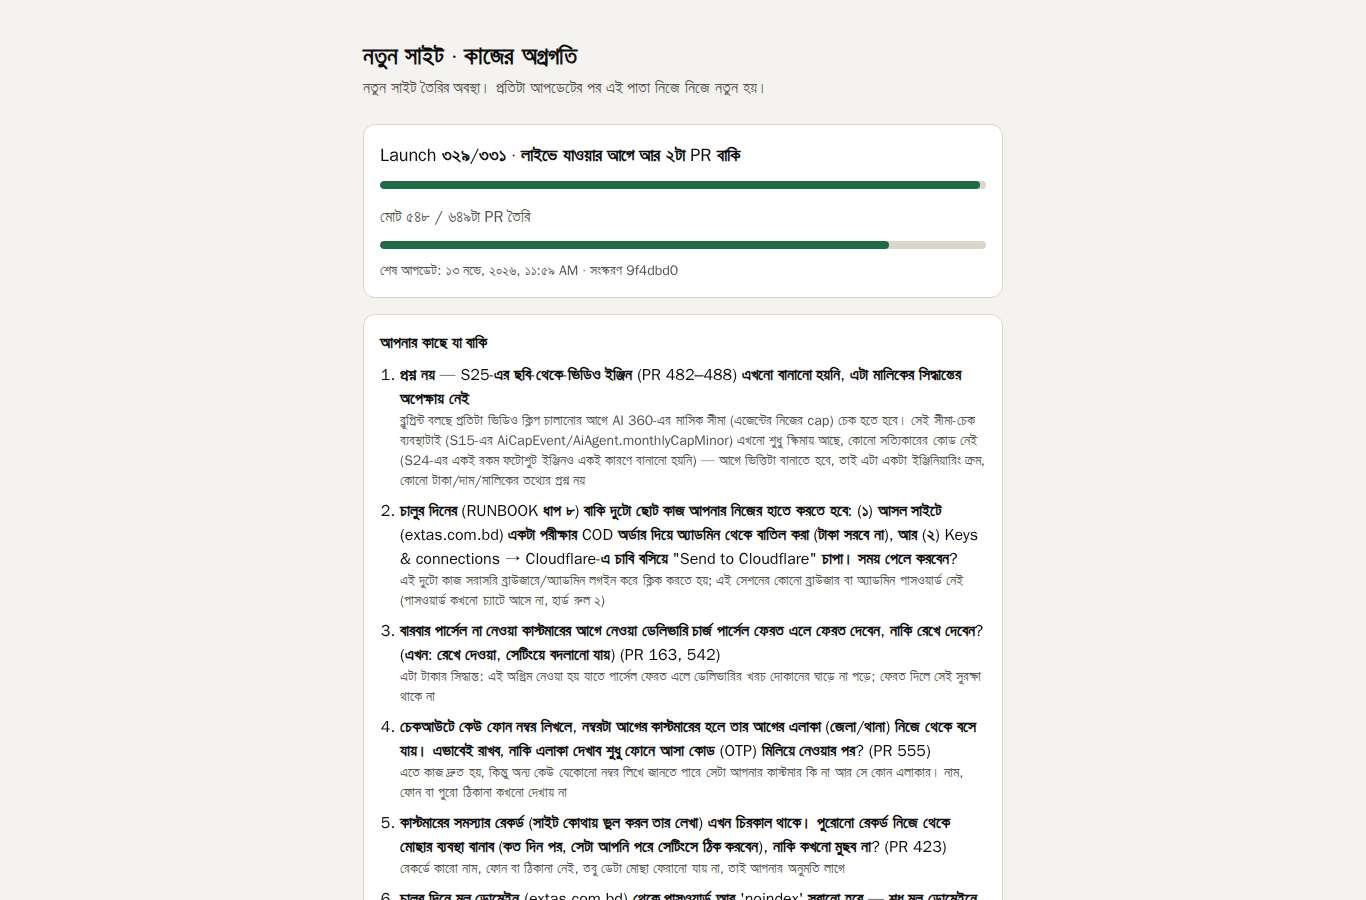
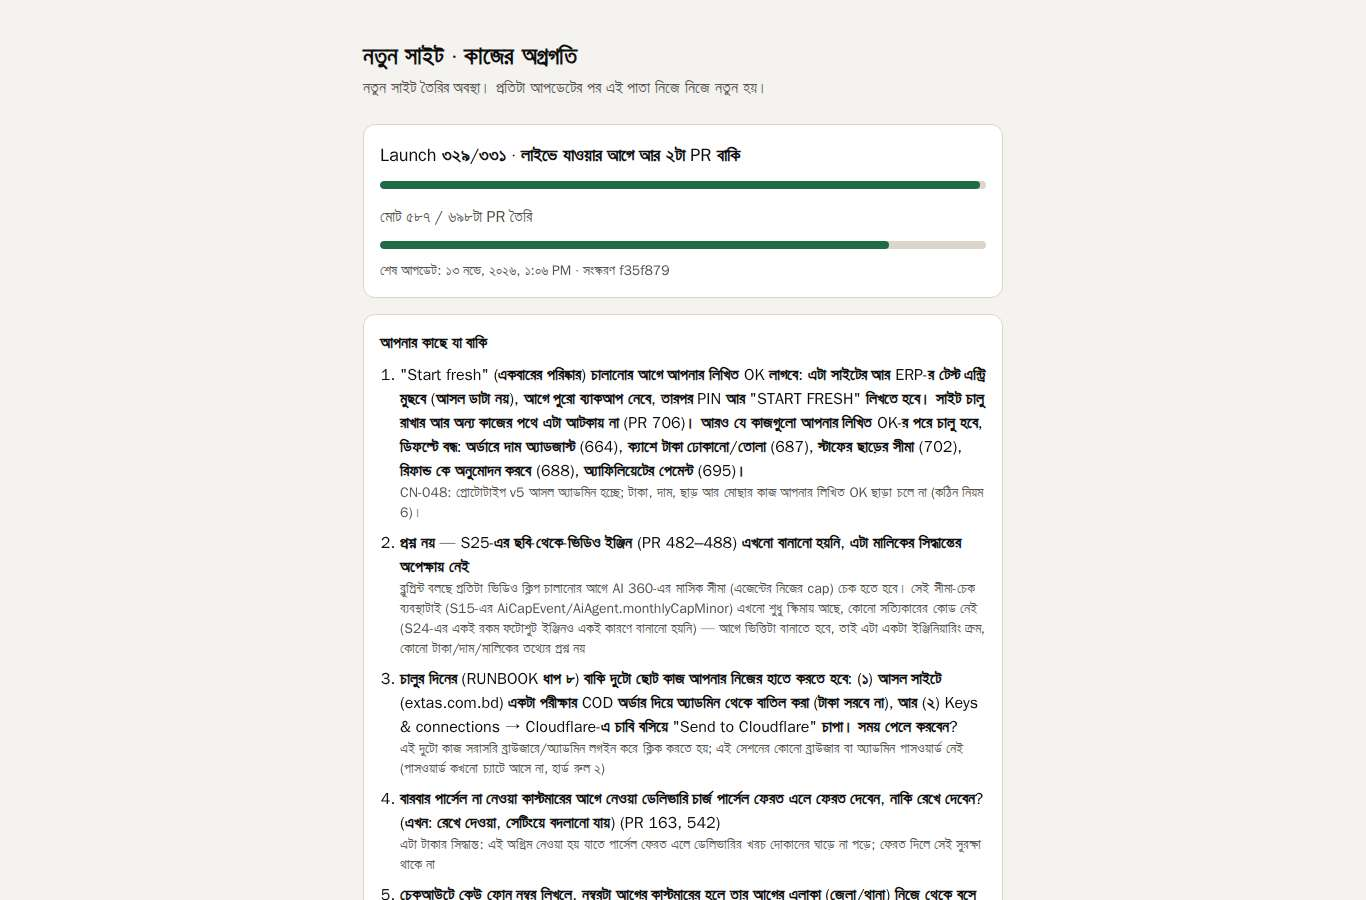
deploy report: f35f87919395 OK [skip ci]

Changed region(s): [[0.2767, 0.4044, 0.7379, 1.0], [0.3997, 0.28, 0.4919, 0.3111], [0.3382, 0.2178, 0.3997, 0.2489]]

diff --git a/docs/reports/smoke/latest/README.md b/docs/reports/smoke/latest/README.md
@@ -1,8 +1,8 @@
-# Smoke test · 2026-11-13 11:59 (Asia/Dhaka)
+# Smoke test · 2026-11-13 13:06 (Asia/Dhaka)
 
-> **বাংলায়:** সব পাতা ঠিকমতো খুলেছে (576টা পাতা, ফোন আর কম্পিউটারে)। কোনো সমস্যা নেই।
+> **বাংলায়:** সব পাতা ঠিকমতো খুলেছে (594টা পাতা, ফোন আর কম্পিউটারে)। কোনো সমস্যা নেই।
 
-Site: https://new.extas.com.bd · commit `9f4dbd010ba9` · after deploy · result **PASS** (576 page views, 0 failed)
+Site: https://new.extas.com.bd · commit `f35f87919395` · after deploy · result **PASS** (594 page views, 0 failed)
 
 | Page | Screen | Answer | Landed on | Result | Screenshot |
 |---|---|:-:|---|---|---|
@@ -233,7 +233,8 @@ Site: https://new.extas.com.bd · commit `9f4dbd010ba9` · after deploy · resul
 | `/admin/marketing/studio/motion` | phone | 200 | `/admin/marketing/studio/motion` | ok | — |
 | `/admin/marketing/studio/models` | phone | 200 | `/admin/marketing/studio/models` | ok | — |
 | `/admin/marketing/studio/videos` | phone | 200 | `/admin/marketing/studio/videos` | ok | — |
-| `/admin/marketing/studio/briefs` | phone | 200 | `/admin/marketing/studio/briefs` | ok | — |
+| `/admin/marketing/studio/reels` | phone | 200 | `/admin/marketing/studio/reels` | ok | — |
+| `/admin/marketing/studio/export` | phone | 200 | `/admin/marketing/studio/export` | ok | — |
 | `/admin/marketing/studio/overlay` | phone | 200 | `/admin/marketing/studio/overlay` | ok | — |
 | `/admin/website/words` | phone | 200 | `/admin/website/words` | ok | — |
 | `/admin/website/eye-toggles` | phone | 200 | `/admin/website/eye-toggles` | ok | — |
@@ -284,13 +285,21 @@ Site: https://new.extas.com.bd · commit `9f4dbd010ba9` · after deploy · resul
 | `/admin/website/blog/ads` | phone | 200 | `/admin/website/blog/ads` | ok | — |
 | `/admin/website/blog/ads/new` | phone | 200 | `/admin/website/blog/ads/new` | ok | — |
 | `/admin/website/blog/pipeline` | phone | 200 | `/admin/website/blog/pipeline` | ok | — |
-| `/admin/website/blog/source` | phone | 200 | `/admin/website/blog/source` | ok | — |
 | `/admin/marketing/geo-guide` | phone | 200 | `/admin/marketing/geo-guide` | ok | — |
 | `/admin/marketing/merchant-feed` | phone | 200 | `/admin/marketing/merchant-feed` | ok | — |
+| `/admin/marketing/studio/briefs` | phone | 200 | `/admin/marketing/studio/briefs` | ok | — |
+| `/admin/website/blog/source` | phone | 200 | `/admin/website/blog/source` | ok | — |
 | `/admin/marketing/intel` | phone | 200 | `/admin/marketing/intel` | ok | — |
+| `/admin/ai/cost-book` | phone | 200 | `/admin/ai/cost-book` | ok | — |
+| `/admin/ai/approvals` | phone | 200 | `/admin/ai/approvals` | ok | — |
+| `/admin/ai/permissions` | phone | 200 | `/admin/ai/permissions` | ok | — |
+| `/admin/ai/diary` | phone | 200 | `/admin/ai/diary` | ok | — |
+| `/admin/ai/skills` | phone | 200 | `/admin/ai/skills` | ok | — |
+| `/admin/ai/skills/sandbox` | phone | 200 | `/admin/ai/skills/sandbox` | ok | — |
+| `/admin/reports/funnels` | phone | 200 | `/admin/reports/funnels` | ok | — |
 | `/admin/orders/01a1b61a-a11b-7d82-bdea-f4c089401719` | phone | 200 | `/admin/orders/01a1b61a-a11b-7d82-bdea-f4c089401719` | ok | — |
 | `/admin/customers/01a1b61a-a118-7bf3-acad-0f8b6b421a94` | phone | 200 | `/admin/customers/01a1b61a-a118-7bf3-acad-0f8b6b421a94` | ok | — |
-| `/admin/reports/health/history/01a1d379-9b53-7151-8f65-769efd0745f2` | phone | 200 | `/admin/reports/health/history/01a1d379-9b53-7151-8f65-769efd0745f2` | ok | — |
+| `/admin/reports/health/history/01a1d385-f6eb-7991-9c07-ba436a818b5c` | phone | 200 | `/admin/reports/health/history/01a1d385-f6eb-7991-9c07-ba436a818b5c` | ok | — |
 | `/admin/customers/01a1b61a-a118-7bf3-acad-0f8b6b421a94?tab=wallet` | phone | 200 | `/admin/customers/01a1b61a-a118-7bf3-acad-0f8b6b421a94` | ok | — |
 | `/admin/combos?tab=report` | phone | 200 | `/admin/combos` | ok | — |
 | `/admin?home=1` | phone | 200 | `/admin` | ok | [picture](admin-home-1-phone.jpg) |
@@ -521,7 +530,8 @@ Site: https://new.extas.com.bd · commit `9f4dbd010ba9` · after deploy · resul
 | `/admin/marketing/studio/motion` | desktop | 200 | `/admin/marketing/studio/motion` | ok | — |
 | `/admin/marketing/studio/models` | desktop | 200 | `/admin/marketing/studio/models` | ok | — |
 | `/admin/marketing/studio/videos` | desktop | 200 | `/admin/marketing/studio/videos` | ok | — |
-| `/admin/marketing/studio/briefs` | desktop | 200 | `/admin/marketing/studio/briefs` | ok | — |
+| `/admin/marketing/studio/reels` | desktop | 200 | `/admin/marketing/studio/reels` | ok | — |
+| `/admin/marketing/studio/export` | desktop | 200 | `/admin/marketing/studio/export` | ok | — |
 | `/admin/marketing/studio/overlay` | desktop | 200 | `/admin/marketing/studio/overlay` | ok | — |
 | `/admin/website/words` | desktop | 200 | `/admin/website/words` | ok | — |
 | `/admin/website/eye-toggles` | desktop | 200 | `/admin/website/eye-toggles` | ok | — |
@@ -572,13 +582,21 @@ Site: https://new.extas.com.bd · commit `9f4dbd010ba9` · after deploy · resul
 | `/admin/website/blog/ads` | desktop | 200 | `/admin/website/blog/ads` | ok | — |
 | `/admin/website/blog/ads/new` | desktop | 200 | `/admin/website/blog/ads/new` | ok | — |
 | `/admin/website/blog/pipeline` | desktop | 200 | `/admin/website/blog/pipeline` | ok | — |
-| `/admin/website/blog/source` | desktop | 200 | `/admin/website/blog/source` | ok | — |
 | `/admin/marketing/geo-guide` | desktop | 200 | `/admin/marketing/geo-guide` | ok | — |
 | `/admin/marketing/merchant-feed` | desktop | 200 | `/admin/marketing/merchant-feed` | ok | — |
+| `/admin/marketing/studio/briefs` | desktop | 200 | `/admin/marketing/studio/briefs` | ok | — |
+| `/admin/website/blog/source` | desktop | 200 | `/admin/website/blog/source` | ok | — |
 | `/admin/marketing/intel` | desktop | 200 | `/admin/marketing/intel` | ok | — |
+| `/admin/ai/cost-book` | desktop | 200 | `/admin/ai/cost-book` | ok | — |
+| `/admin/ai/approvals` | desktop | 200 | `/admin/ai/approvals` | ok | — |
+| `/admin/ai/permissions` | desktop | 200 | `/admin/ai/permissions` | ok | — |
+| `/admin/ai/diary` | desktop | 200 | `/admin/ai/diary` | ok | — |
+| `/admin/ai/skills` | desktop | 200 | `/admin/ai/skills` | ok | — |
+| `/admin/ai/skills/sandbox` | desktop | 200 | `/admin/ai/skills/sandbox` | ok | — |
+| `/admin/reports/funnels` | desktop | 200 | `/admin/reports/funnels` | ok | — |
 | `/admin/orders/01a1b61a-a11b-7d82-bdea-f4c089401719` | desktop | 200 | `/admin/orders/01a1b61a-a11b-7d82-bdea-f4c089401719` | ok | — |
 | `/admin/customers/01a1b61a-a118-7bf3-acad-0f8b6b421a94` | desktop | 200 | `/admin/customers/01a1b61a-a118-7bf3-acad-0f8b6b421a94` | ok | — |
-| `/admin/reports/health/history/01a1d379-9b53-7151-8f65-769efd0745f2` | desktop | 200 | `/admin/reports/health/history/01a1d379-9b53-7151-8f65-769efd0745f2` | ok | — |
+| `/admin/reports/health/history/01a1d385-f6eb-7991-9c07-ba436a818b5c` | desktop | 200 | `/admin/reports/health/history/01a1d385-f6eb-7991-9c07-ba436a818b5c` | ok | — |
 | `/admin/customers/01a1b61a-a118-7bf3-acad-0f8b6b421a94?tab=wallet` | desktop | 200 | `/admin/customers/01a1b61a-a118-7bf3-acad-0f8b6b421a94` | ok | — |
 | `/admin/combos?tab=report` | desktop | 200 | `/admin/combos` | ok | — |
 | `/admin?home=1` | desktop | 200 | `/admin` | ok | [picture](admin-home-1-desktop.jpg) |

diff --git a/docs/reports/server/deploy-latest.md b/docs/reports/server/deploy-latest.md
@@ -4,13 +4,13 @@ Written by `deploy.yml` after every deploy (`infra/deploy/deploy-report.sh`). Hi
 
 | | |
 |---|---|
-| Commit | `9f4dbd010ba9` |
-| Time (Asia/Dhaka) | 2026-11-13 12:08 |
+| Commit | `f35f87919395` |
+| Time (Asia/Dhaka) | 2026-11-13 13:16 |
 | Result | **OK** |
 | Database migration | ok |
-| Health check on new.extas.com.bd | OK — HTTP 200 from https://new.extas.com.bd/api/health, version 9f4dbd010ba9, colour green |
-| Smoke test (every page) | OK — 576 page views, signed out and as the admin, phone and desktop (storefront pictures: `docs/reports/smoke/latest/`; the admin pictures stay on the server) |
-| Docs on the server | `9f4dbd010ba9` — README.md + docs/ (2489 files) |
+| Health check on new.extas.com.bd | OK — HTTP 200 from https://new.extas.com.bd/api/health, version f35f87919395, colour blue |
+| Smoke test (every page) | OK — 594 page views, signed out and as the admin, phone and desktop (storefront pictures: `docs/reports/smoke/latest/`; the admin pictures stay on the server) |
+| Docs on the server | `f35f87919395` — README.md + docs/ (2504 files) |
 | Main disk (/) | 118 GB free after the clean-up (was 118 GB), at least 15 GB needed |
-| Live colour | green |
-| Run log | https://github.com/mehadih32/Extas-Ecommerce-Site/actions/runs/43372603748 |
+| Live colour | blue |
+| Run log | https://github.com/mehadih32/Extas-Ecommerce-Site/actions/runs/43382719693 |

diff --git a/docs/reports/erp-acceptance/latest/README.md b/docs/reports/erp-acceptance/latest/README.md
@@ -2,5 +2,5 @@
 
 **সারকথা:** ডেমো ERP-এর চাবির অপেক্ষায়। মালিক সেটিংস → ERP সংযোগ পাতায় ডেমো দোকানের চাবি দিলে প্রতি রাতে আর প্রতিটা রিলিজের আগে এই পরীক্ষা চলবে।
 
-- 2026-11-13T05:58:39.290Z: waiting for the demo key. Nothing was called; nothing failed.
+- 2026-11-13T07:05:41.728Z: waiting for the demo key. Nothing was called; nothing failed.
 - The practice ERP runs every check in CI (packages/adapters/test/erp-acceptance.test.ts, the books drills).

diff --git a/docs/reports/server/deploy-history.md b/docs/reports/server/deploy-history.md
@@ -142,3 +142,4 @@ One line per deploy, newest last, appended by `deploy.yml`. Time: Asia/Dhaka.
 | 2026-11-13 11:42 | `ad3677716bfe` | deploy | OK | ok | OK, smoke OK | — |
 | 2026-11-13 11:55 | `504cef80b4ac` | deploy | OK | ok | OK, smoke OK | — |
 | 2026-11-13 12:08 | `9f4dbd010ba9` | deploy | OK | ok | OK, smoke OK | — |
+| 2026-11-13 13:16 | `f35f87919395` | deploy | OK | ok | OK, smoke OK | — |
